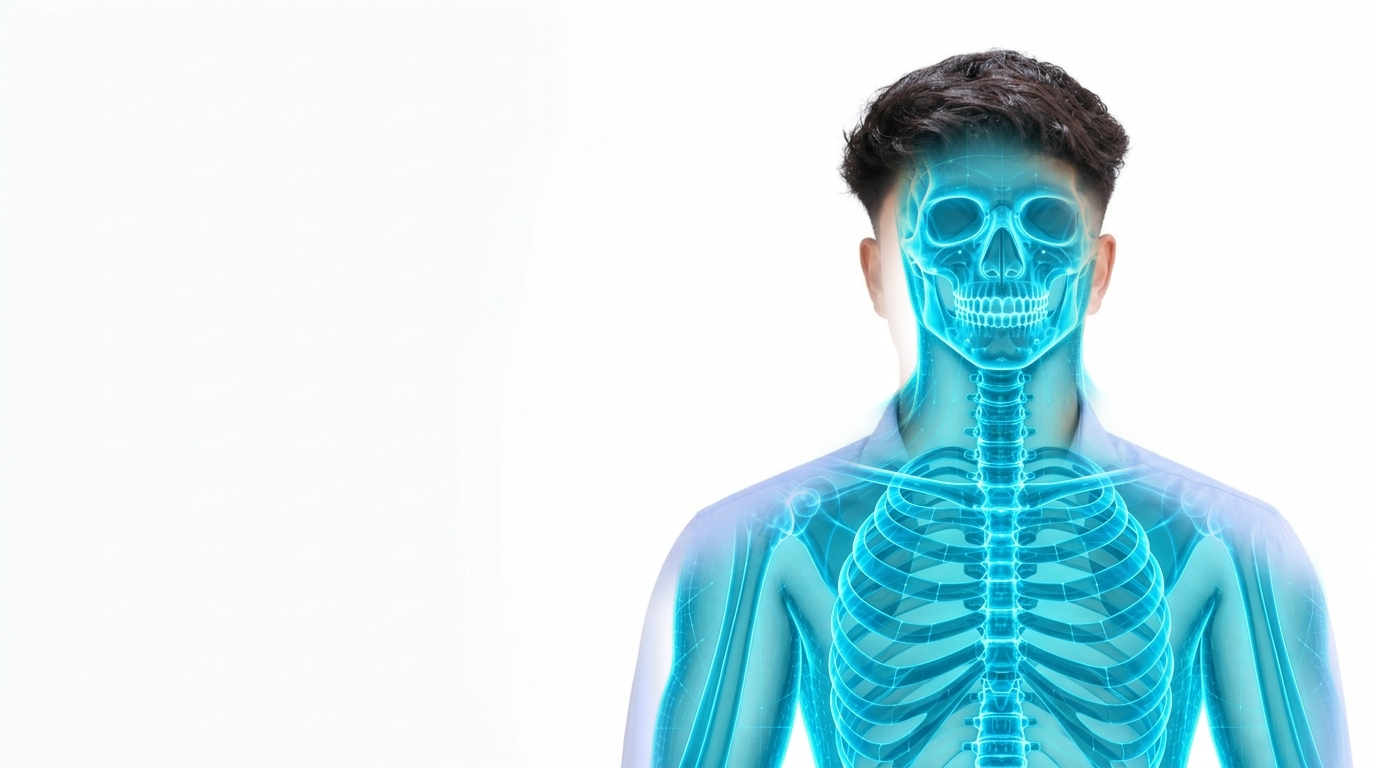
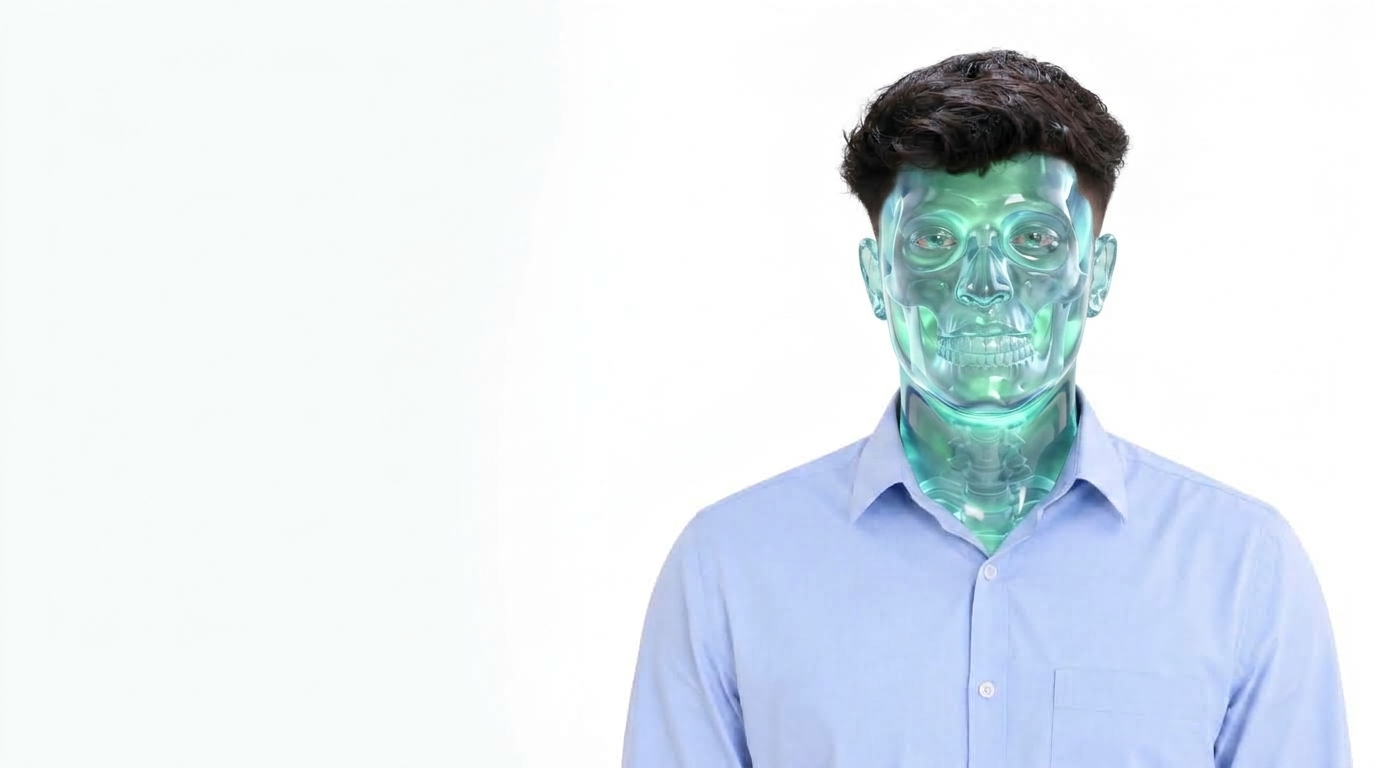
revert: restore original translucent water glass skeleton reveal images and cursor radius

Changed region(s): [[0.4688, 0.1562, 1.0, 1.0]]

diff --git a/components/glass-hero.tsx b/components/glass-hero.tsx
@@ -32,9 +32,9 @@ export function GlassHero() {
     // Check prefers-reduced-motion
     const reducedMotion = window.matchMedia('(prefers-reduced-motion: reduce)').matches;
 
-    // Radius specs (compact focused lens)
-    const DESKTOP_RADIUS = 165;
-    const MOBILE_RADIUS = 110;
+    // Radius specs
+    const DESKTOP_RADIUS = 235;
+    const MOBILE_RADIUS = 150;
 
     // RequestAnimationFrame smooth interpolation loop
     const animate = () => {
@@ -155,22 +155,20 @@ export function GlassHero() {
         </div>
       </div>
 
-      {/* Background Image Layer 2: Reveal Image (Translucent Liquid Glass) with CSS Masking & Light Green/Red Water Color Tint */}
+      {/* Background Image Layer 2: Reveal Image (Translucent Liquid Glass) with CSS Masking */}
       <div
         className="absolute inset-0 w-full h-full pointer-events-none reveal-mask-layer z-20 flex items-end justify-center md:justify-end pt-16 md:pt-20"
         aria-hidden="true"
       >
-        <div className="w-full h-full max-h-[85vh] md:max-h-[88vh] lg:max-h-[92vh] flex items-end justify-center md:justify-end transform scale-100 md:scale-105 lg:scale-108 origin-bottom md:origin-bottom-right relative">
+        <div className="w-full h-full max-h-[85vh] md:max-h-[88vh] lg:max-h-[92vh] flex items-end justify-center md:justify-end transform scale-100 md:scale-105 lg:scale-108 origin-bottom md:origin-bottom-right">
           <picture className="h-full w-full flex items-end justify-center md:justify-end">
             <source media="(max-width: 767px)" srcSet="/images/Reveal_image_mobile.png" />
             <img
               src="/images/Reveal_image_desktop.png"
               alt="Portrait Master Liquid Glass Reveal"
-              className="max-h-full w-auto object-contain object-bottom md:object-right-bottom max-w-full filter contrast-[1.05]"
+              className="max-h-full w-auto object-contain object-bottom md:object-right-bottom max-w-full"
             />
           </picture>
-          {/* Soft Water Color Light Green & Light Red Dual Refraction Tint */}
-          <div className="absolute inset-0 pointer-events-none bg-gradient-to-r from-emerald-400/20 via-transparent to-rose-400/20 mix-blend-color-dodge opacity-90" />
         </div>
       </div>
 
